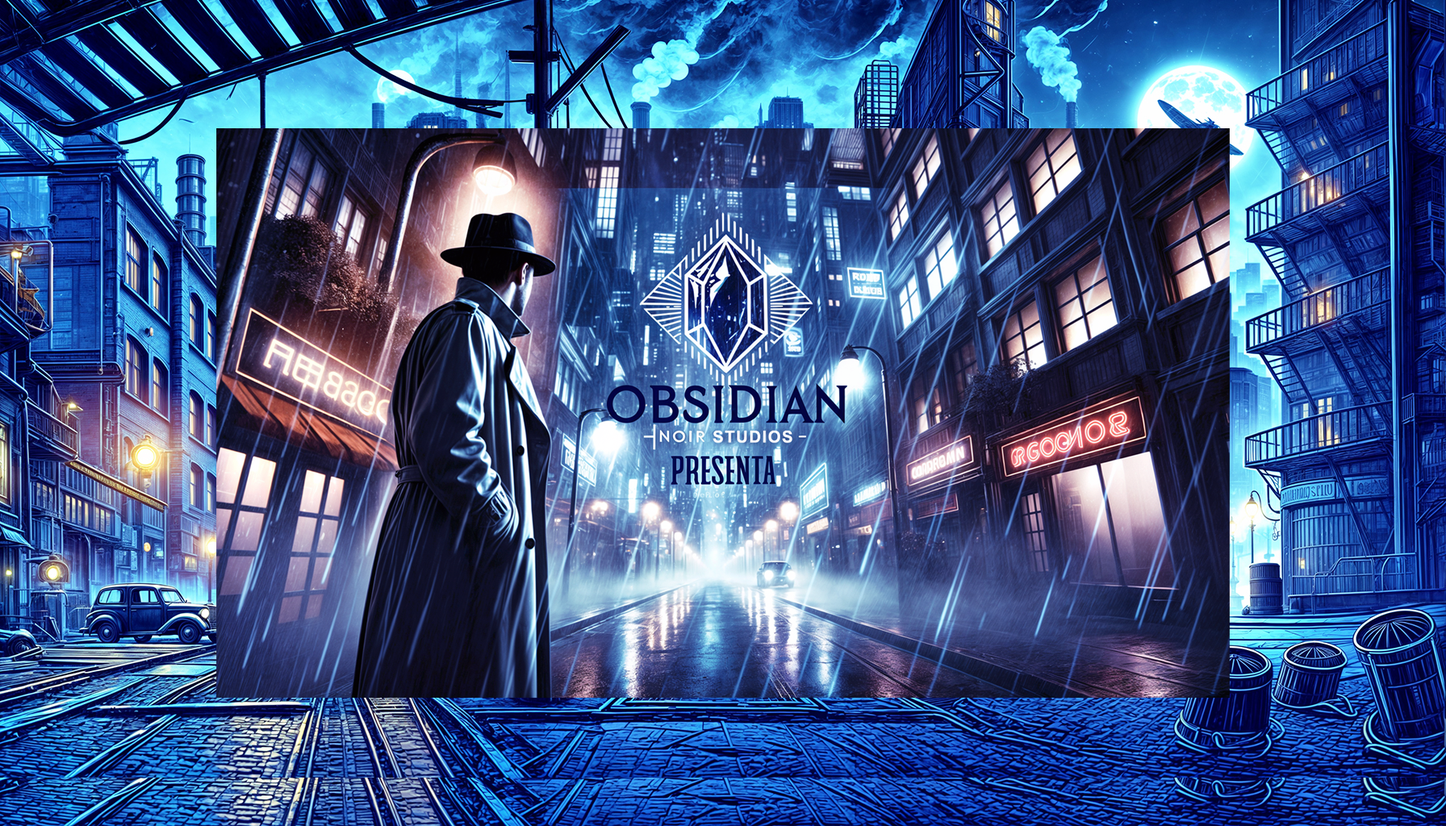
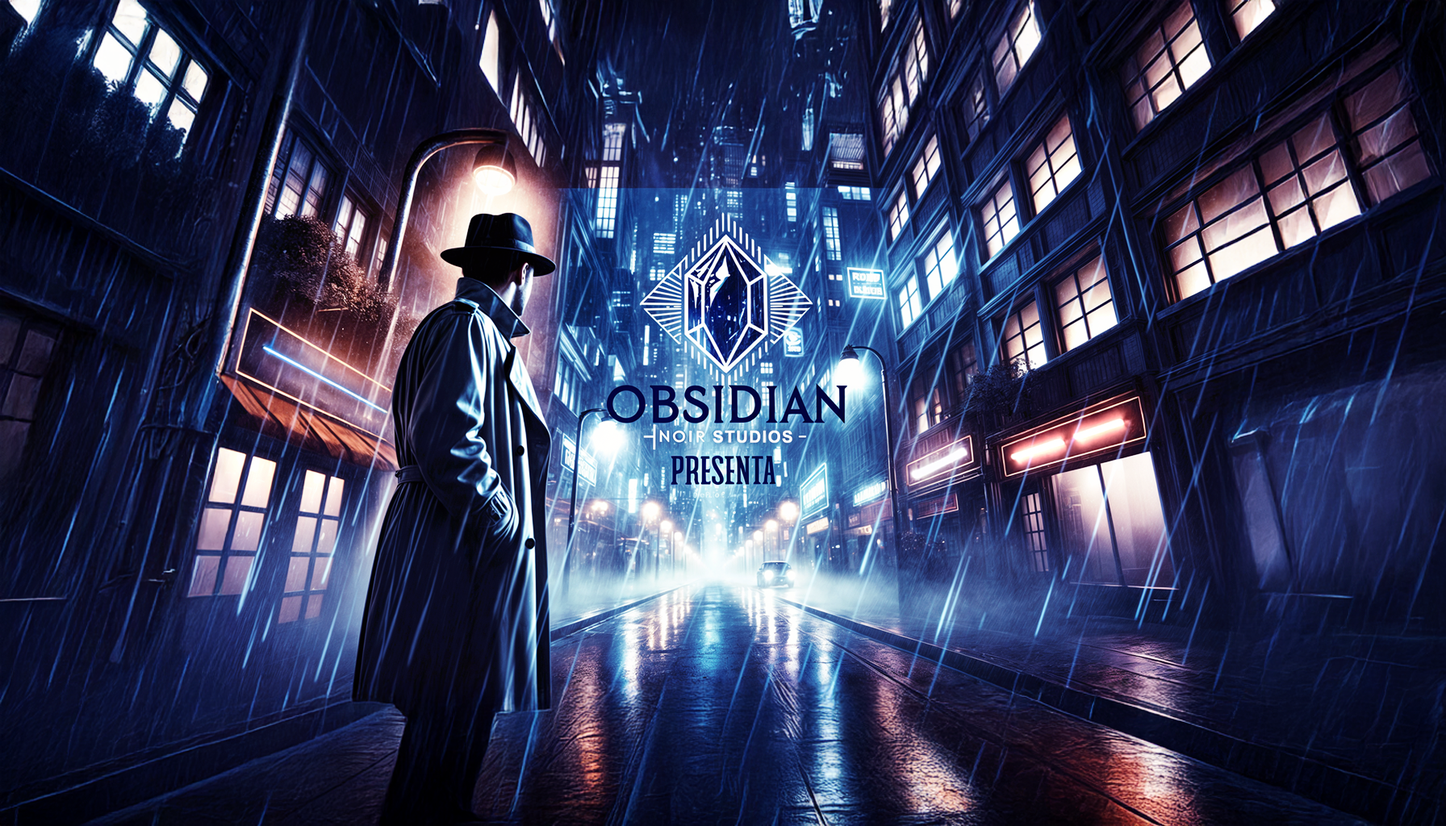
Nueva Cinemática

diff --git a/src/juegoprog/cinematica/Cinematica.java b/src/juegoprog/cinematica/Cinematica.java
@@ -50,7 +50,7 @@ public class Cinematica extends JPanel implements ActionListener {
         timer.start();
 
         // Timer que pasa a la siguiente imagen cada 20 s
-        cambioImagenTimer = new Timer(22000, e -> siguienteImagen());
+        cambioImagenTimer = new Timer(10900, e -> siguienteImagen());
         cambioImagenTimer.start();
 
         // Si se hace clic, empieza el fade out en lugar de cortar en seco
@@ -68,8 +68,9 @@ public class Cinematica extends JPanel implements ActionListener {
     private void cargarImagenes() {
         String[] archivos = {
                 "/cinematicas/imagen1OB.png",
-                "/cinematicas/imagen2.jpg",
-                "/cinematicas/imagen3.jpg"
+                "/cinematicas/imagen2OB.PNG",
+                "/cinematicas/imagen3OB.PNG",
+                "/cinematicas/imagen4OB.PNG",
         };
 
         for (String archivo : archivos) {
@@ -90,16 +91,30 @@ public class Cinematica extends JPanel implements ActionListener {
     // 3. LOGICA: AVANZAR O FINALIZAR
     // ===========================================
     private void siguienteImagen() {
-        indiceActual++; // Incrementa solo UNA vez
+        new Thread(() -> {
+            // 🔹 Efecto de fade-out antes de cambiar de imagen
+            for (float i = alpha; i >= 0; i -= 0.05f) {
+                alpha = i;
+                repaint();
+                try {
+                    Thread.sleep(50); // Pequeño retraso para suavizar la transición
+                } catch (InterruptedException e) {
+                    e.printStackTrace();
+                }
+            }
 
-        if (indiceActual >= imagenes.size()) {
-            // Si nos pasamos del límite
-            indiceActual = imagenes.size() - 1; // Quedarse en la última
-            iniciarFadeOut();                  // Empieza fade out
-        } else {
-            alpha = 0f; // Reinicia fade in
-        }
+            // 🔹 Cambiar de imagen después del fade-out
+            indiceActual++;
+            if (indiceActual >= imagenes.size()) {
+                indiceActual = imagenes.size() - 1;
+                iniciarFadeOut();
+            } else {
+                alpha = 0f; // Reinicia fade-in para la nueva imagen
+            }
+
+        }).start();
     }
+
 
 
     /**
@@ -141,7 +156,7 @@ public class Cinematica extends JPanel implements ActionListener {
             glass.setVisible(true);
 
             // 4) Programamos un Timer de 300 ms (o el tiempo que quieras) que lo oculte
-            Timer t = new Timer(300, e -> {
+            Timer t = new Timer(500, e -> {
                 // Quita el velo negro
                 glass.setVisible(false);
             });
@@ -159,10 +174,10 @@ public class Cinematica extends JPanel implements ActionListener {
         if (!finalizando) {
             // Mientras no estemos finalizando:
             // 1) Incrementar fade in
-            alpha = Math.min(alpha + 0.01f, 1f);
+            alpha = Math.min(alpha + 0.02f, 1f);
 
             // 2) Incrementar zoom, con un valor algo menor para que tiemble menos
-            escala += 0.0001f;
+            escala += 0.0002f;
         } else {
             // Si estamos en fase de fade out, aumentar alphaSalida
             alphaSalida = Math.min(alphaSalida + 0.08f, 1f);
